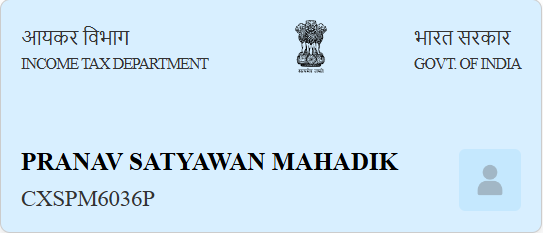
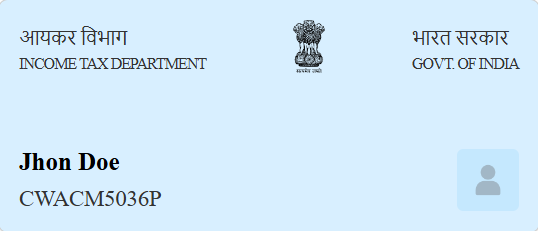
Added README with usage instructions and example output

diff --git a/pan-card-component/src/App.jsx b/pan-card-component/src/App.jsx
@@ -4,7 +4,7 @@ import PanCard from "./PanCard";
 function App() {
   return (
     <div className="App">
-      <PanCard name="PRANAV SATYAWAN MAHADIK" panNumber="CXSPM6036P" />
+      <PanCard name="Jhon Doe" panNumber="CWACM5036P" />
     </div>
   );
 }

diff --git a/pan-card-component/README.md b/pan-card-component/README.md
@@ -7,10 +7,14 @@ This is a React component for displaying a PAN card with name and PAN number.
 1. Clone the repository:
     ```bash
     git clone https://github.com/settle-finance/identity-card.git
+    ```
+
+2. Navigate to the `pan-card-component` directory:
+    ```bash
     cd identity-card/pan-card-component
     ```
 
-2. Install dependencies:
+3. Install the dependencies:
     ```bash
     npm install
     ```
@@ -20,6 +24,7 @@ This is a React component for displaying a PAN card with name and PAN number.
 1. Import the `PanCard` component in your `App.jsx`:
     ```jsx
     import PanCard from "./PanCard";
+    import "./PanCard.css"; // Ensure you import the CSS for styling
     ```
 
 2. Use the `PanCard` component in your `App` component with sample data:
@@ -27,7 +32,7 @@ This is a React component for displaying a PAN card with name and PAN number.
     function App() {
       return (
         <div className="App">
-          <PanCard name="PRANAV SATYAWAN MAHADIK" panNumber="CXSPM6036P" />
+          <PanCard name="Jhon Doe" panNumber="CWACM5036P" />
         </div>
       );
     }
